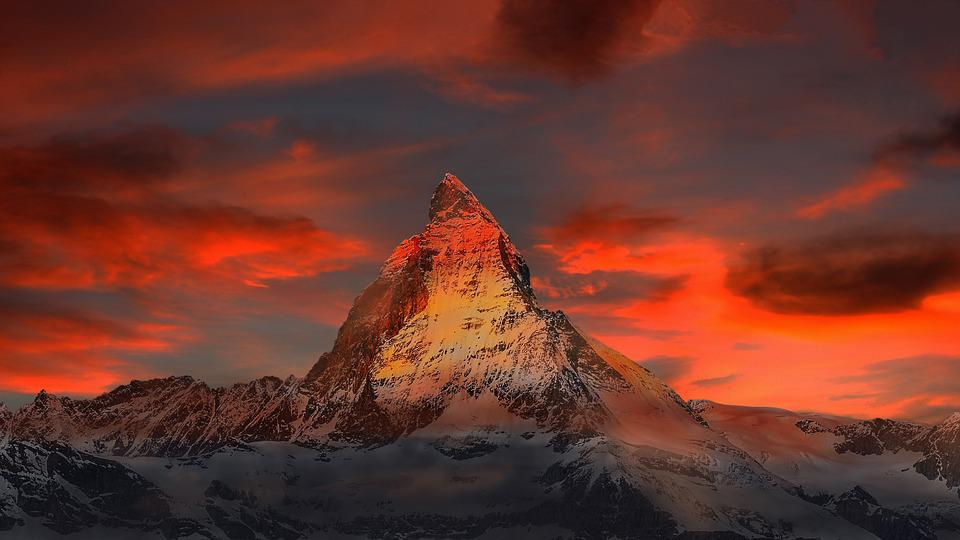
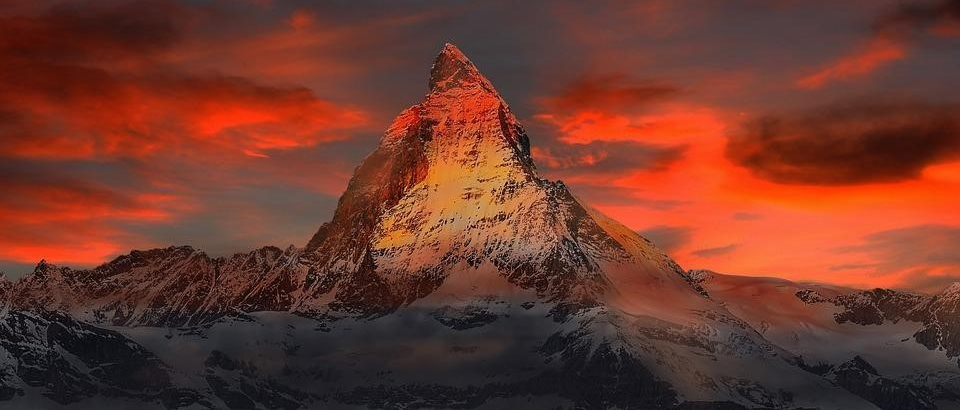
Update testimonial background

diff --git a/frontend/src/routes/Home/Home.jsx b/frontend/src/routes/Home/Home.jsx
@@ -118,8 +118,7 @@ function Home() {
         },
         testimonialBackground: {
             position: "absolute",
-            backgroundImage:
-                "url(https://cdn.pixabay.com/photo/2017/03/19/01/43/living-room-2155376_960_720.jpg)",
+            backgroundImage: "url(/resources/sunset-mountain.jpg)",
             backgroundRepeat: "no-repeat",
             backgroundSize: "cover",
             height: "85%",
@@ -130,9 +129,10 @@ function Home() {
         },
         testimonialColour: {
             position: "absolute",
+            //backgroundColor: "#c9aa91",
             backgroundColor: `hsl(${
                 hexToHSL(theme.palette.primary.main).h
-            }, 67%, 88%)`,
+            }, 67%, 80%)`,
             height: "100%",
             width: "100%",
         },
